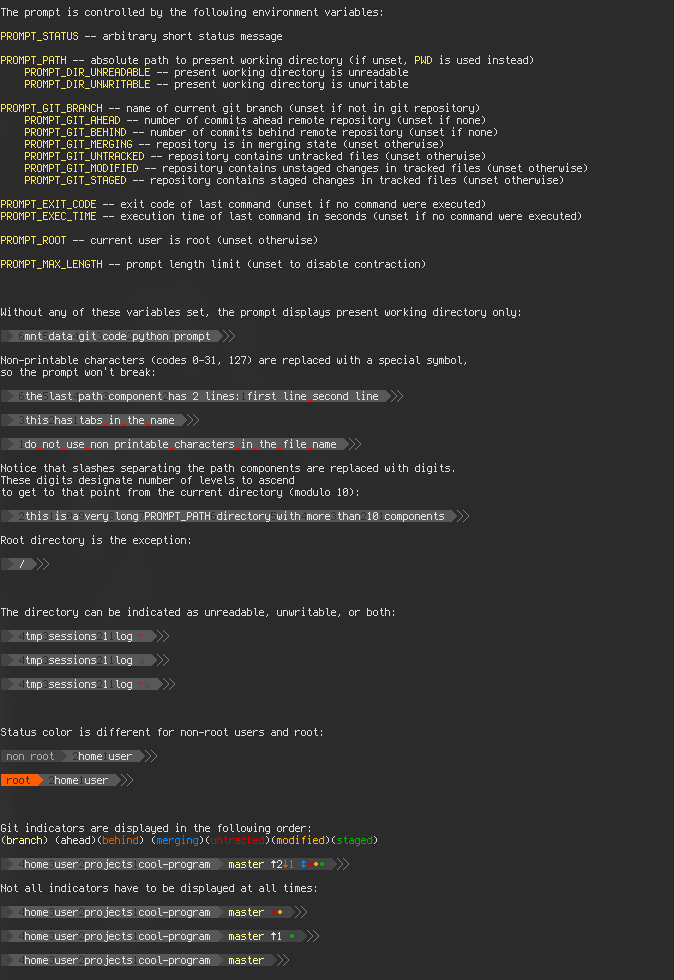
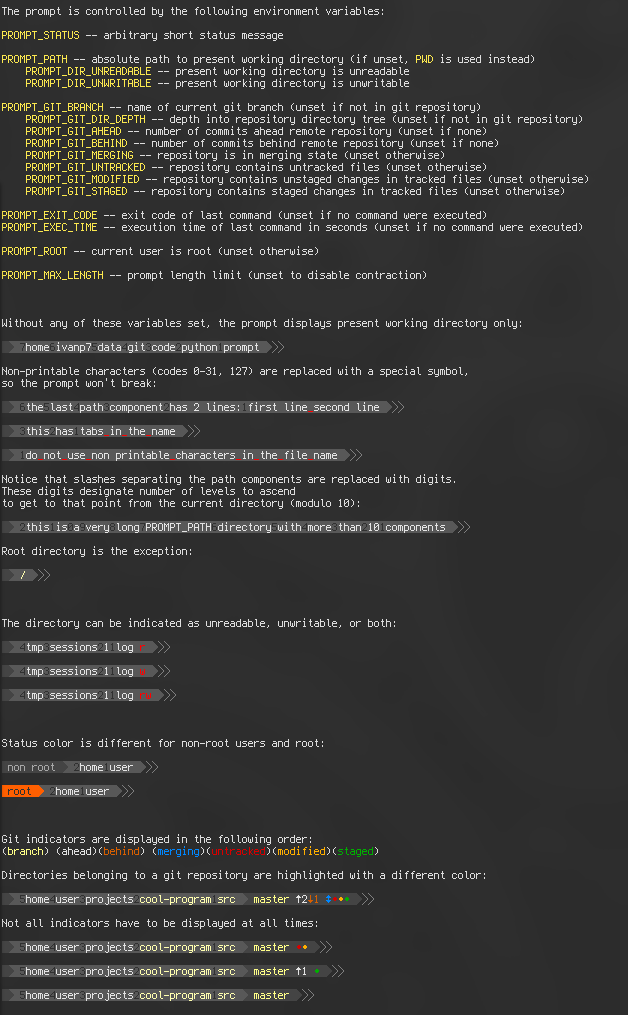
feat: implement git directories highlighting using a different color

diff --git a/prompt.py b/prompt.py
@@ -24,6 +24,7 @@ DEFAULT_CHAR_PATH_DIR_UNREADABLE = "r" # style['ch_path_dir_unreadable']
 DEFAULT_CHAR_PATH_DIR_UNWRITABLE = "w" # style['ch_path_dir_unwritable']
 
 DEFAULT_COLOR_PATH_DIR_FG = 254      # style['col_path_dir_fg']
+DEFAULT_COLOR_PATH_GIT_DIR_FG = 229  # style['col_path_git_dir_fg']
 DEFAULT_COLOR_PATH_SEP_FG = 236      # style['col_path_sep_fg']
 DEFAULT_COLOR_PATH_OMIT_FG = 200     # style['col_path_omit_fg']
 DEFAULT_COLOR_PATH_NONPRINT_FG = 196 # style['col_path_nonprint_fg']
@@ -113,7 +114,7 @@ class Prompt:
     """
     def __init__(self, status: str, path: str,
                  path_dir_unreadable: bool=False, path_dir_unwritable: bool=False,
-                 git_branch: str=None,
+                 git_branch: str=None, path_git_dir_depth: str=None,
                  git_ahead: str=None, git_behind: str=None, git_merging: bool=False,
                  git_untracked: bool=False, git_modified: bool=False, git_staged: bool=False,
                  exit_code: str=None, exec_time: str=None,
@@ -130,6 +131,10 @@ class Prompt:
         self._path_dir_unwritable = path_dir_unwritable
 
         self._git_branch = git_branch
+        try:
+            self._path_git_dir_depth = int(path_git_dir_depth)
+        except:
+            self._path_git_dir_depth = -1
         self._git_ahead = git_ahead
         self._git_behind = git_behind
         self._git_merging = git_merging
@@ -146,7 +151,7 @@ class Prompt:
 
         assert self._max_length is None or self._max_length > 0
 
-        for prop in ['style', 'status', 'path', 'path_dir_unreadable', 'path_dir_unwritable',
+        for prop in ['style', 'status', 'path', 'path_dir_unreadable', 'path_dir_unwritable', 'path_git_dir_depth',
                      'git_branch', 'git_ahead', 'git_behind',
                      'git_merging', 'git_untracked', 'git_modified', 'git_staged',
                      'exit_code', 'exec_time', 'root', 'max_length']:
@@ -243,6 +248,7 @@ class Prompt:
         assert len(CHAR_PATH_DIR_UNWRITABLE) == 1
 
         COLOR_PATH_DIR_FG = self._style.get('col_path_dir_fg', DEFAULT_COLOR_PATH_DIR_FG)
+        COLOR_PATH_GIT_DIR_FG = self._style.get('col_path_git_dir_fg', DEFAULT_COLOR_PATH_GIT_DIR_FG)
         COLOR_PATH_SEP_FG = self._style.get('col_path_sep_fg', DEFAULT_COLOR_PATH_SEP_FG)
         COLOR_PATH_OMIT_FG = self._style.get('col_path_omit_fg', DEFAULT_COLOR_PATH_OMIT_FG)
         COLOR_PATH_NONPRINT_FG = self._style.get('col_path_nonprint_fg', DEFAULT_COLOR_PATH_NONPRINT_FG)
@@ -441,8 +447,10 @@ class Prompt:
         self._str += color2(fg=prev_bg, bg=COLOR_PATH_BG) + TRIANGLE + " "
         prev_bg = COLOR_PATH_BG
 
+        path_dir_fg = COLOR_PATH_DIR_FG if (self._path_git_dir_depth + 1) < len(path) else COLOR_PATH_GIT_DIR_FG
+
         if path:
-            for component, sep, omitted in zip(path, path_sep, path_omitted):
+            for i, component, sep, omitted in zip(range(len(path)), path, path_sep, path_omitted):
                 self._str += color1(COLOR_PATH_SEP_FG) + sep
 
                 if omitted > 0:
@@ -454,12 +462,15 @@ class Prompt:
                     elif part[0] == '/':
                         self._str += color1(COLOR_PATH_NONPRINT_FG) + CHAR_PATH_NONPRINT * len(part)
                     else:
-                        self._str += color1(COLOR_PATH_DIR_FG) + part
+                        self._str += color1(path_dir_fg) + part
 
                 if omitted > 0:
                     self._str += color1(COLOR_PATH_OMIT_FG) + CHAR_PATH_OMIT
+
+                if i == (len(path) - 1) - (self._path_git_dir_depth + 1):
+                    path_dir_fg = COLOR_PATH_GIT_DIR_FG
         else:
-            self._str += color1(COLOR_PATH_DIR_FG) + "/"
+            self._str += color1(path_dir_fg) + "/"
         self._str += " "
 
         if self._path_dir_unreadable or self._path_dir_unwritable:
@@ -526,6 +537,7 @@ if __name__ == '__main__':
                      path_dir_unreadable='PROMPT_DIR_UNREADABLE' in os.environ,
                      path_dir_unwritable='PROMPT_DIR_UNWRITABLE' in os.environ,
                      git_branch=os.environ.get('PROMPT_GIT_BRANCH', None),
+                     path_git_dir_depth=os.environ.get('PROMPT_GIT_DIR_DEPTH', None),
                      git_ahead=os.environ.get('PROMPT_GIT_AHEAD', None),
                      git_behind=os.environ.get('PROMPT_GIT_BEHIND', None),
                      git_merging='PROMPT_GIT_MERGING' in os.environ,
